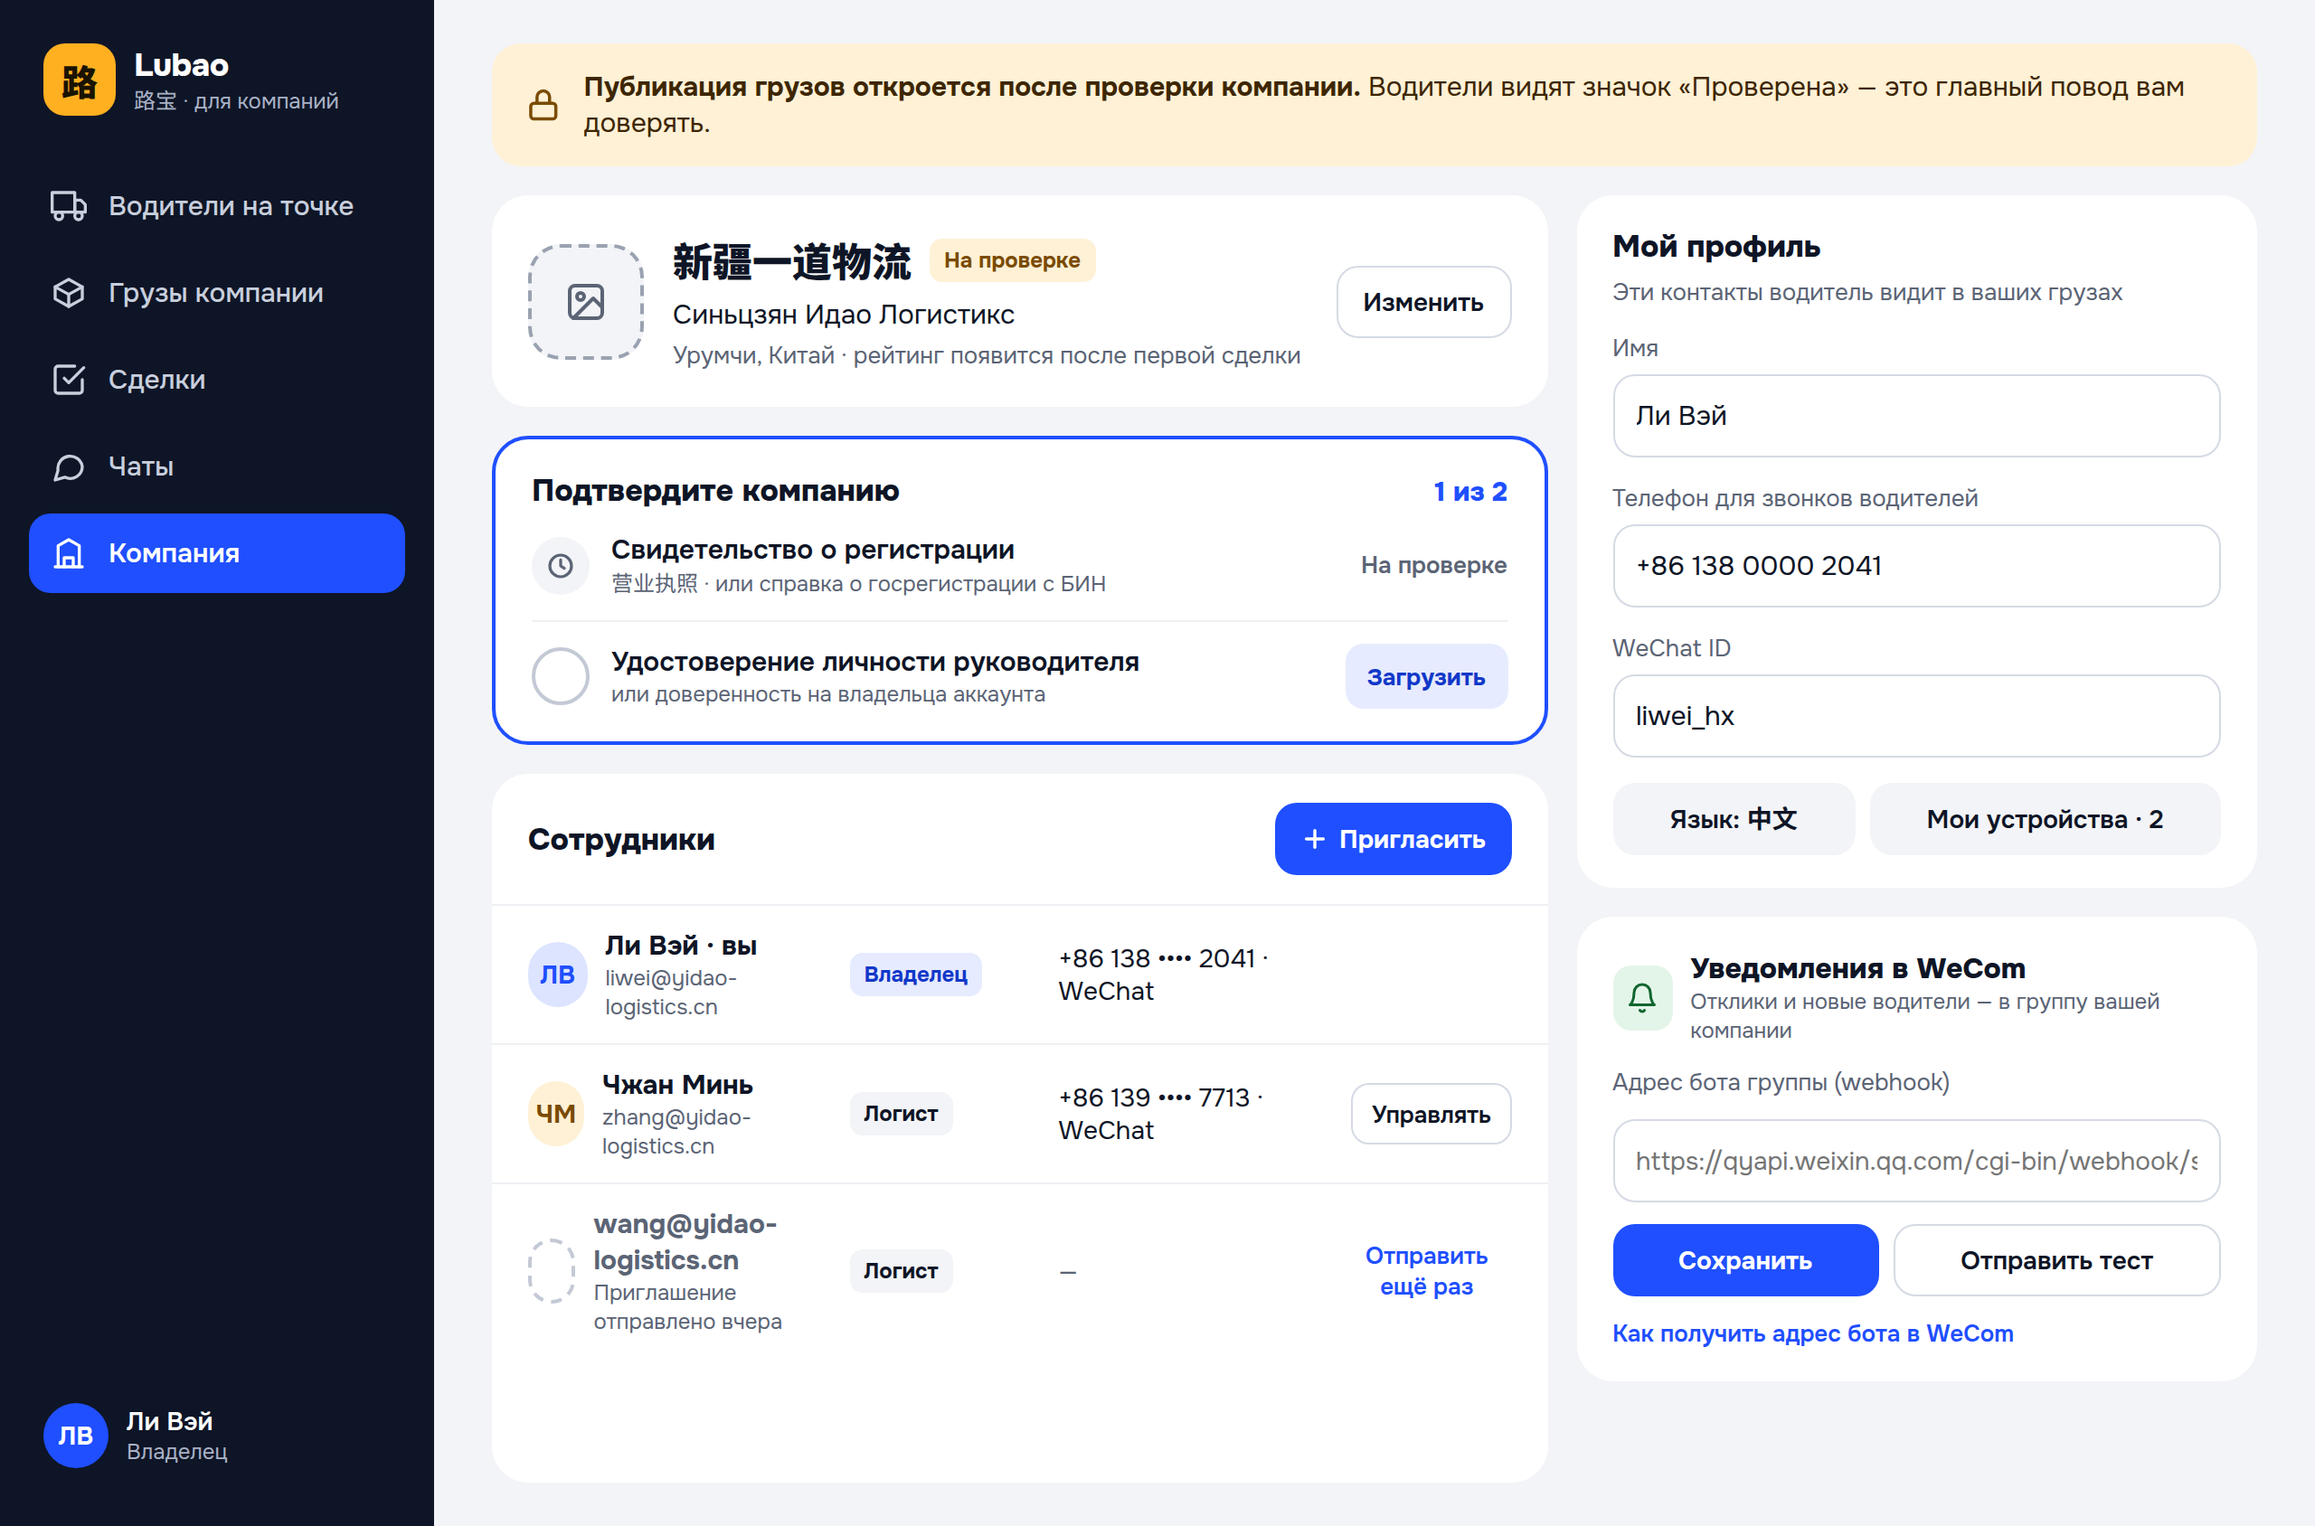
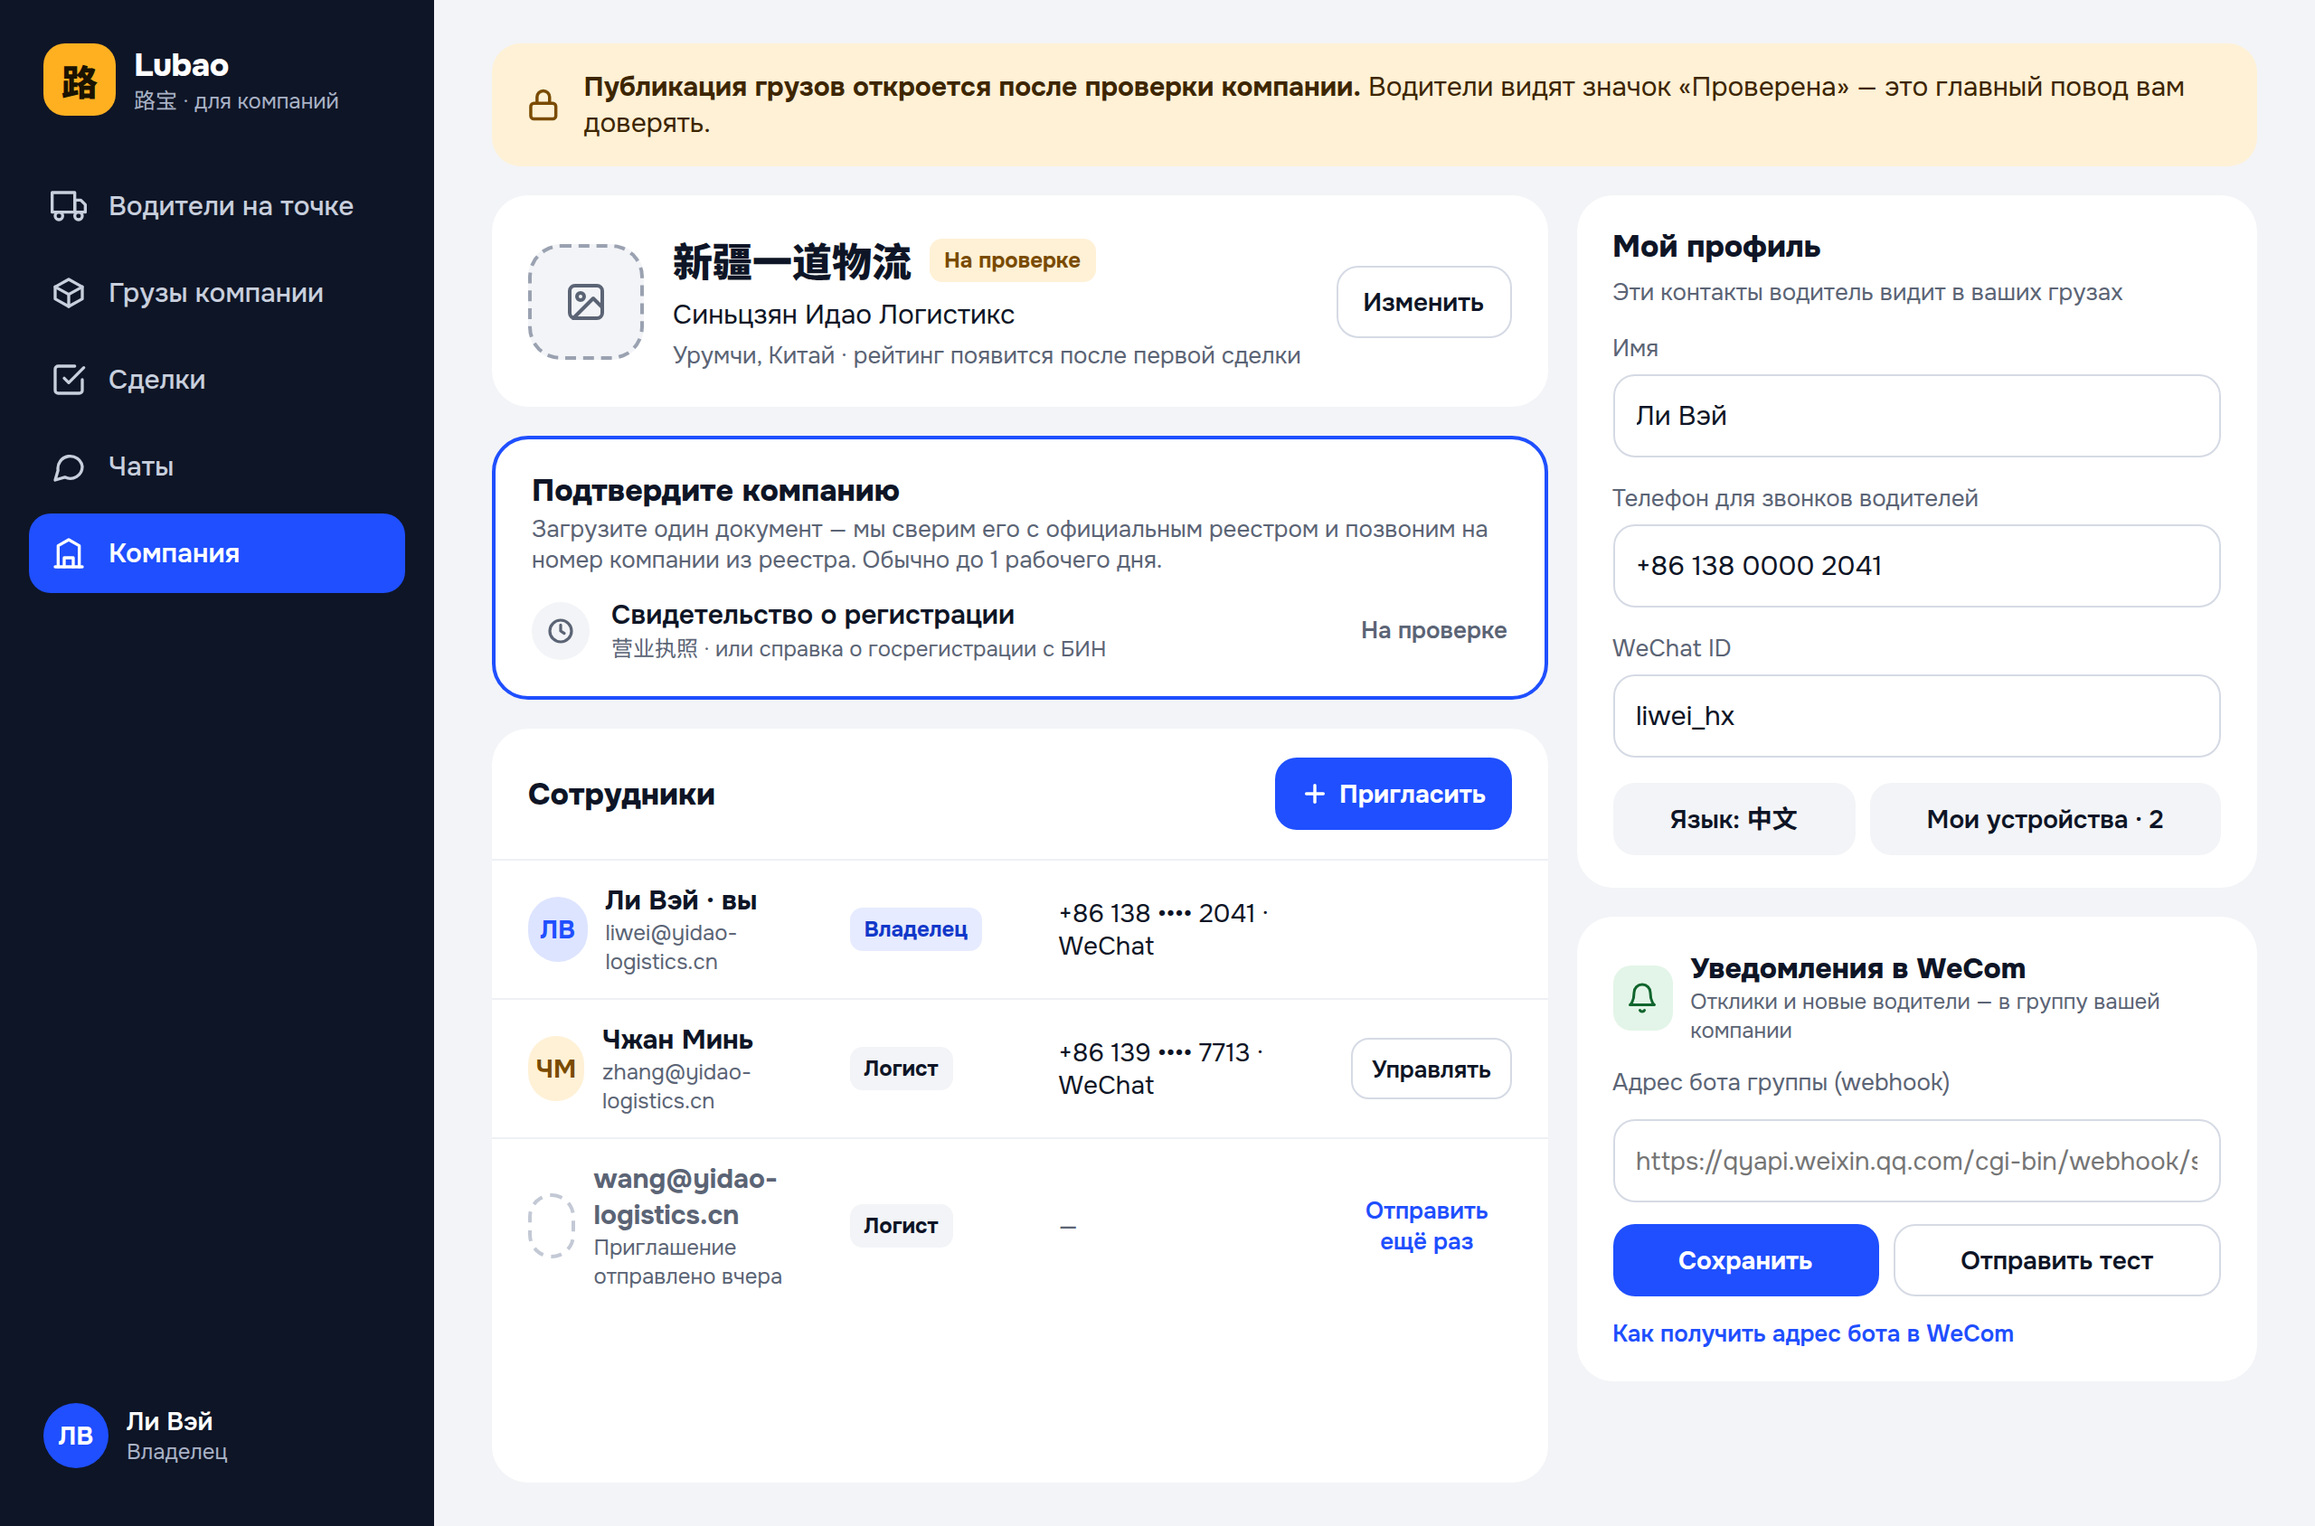
Company verification: single document + admin registry/call checklist
Claude-Session: https://claude.ai/code/session_01Ff8oopsZvobH79mMVJKnFv

diff --git a/docs/tasks/012-company-profile.md b/docs/tasks/012-company-profile.md
@@ -16,7 +16,14 @@
 
 ### Правила доступа
 4. **Непроверенная компания не может публиковать грузы** — бэкенд отвечает 403 `COMPANY_NOT_VERIFIED`; в UI кнопка «Опубликовать груз» заблокирована, баннер «Публикация откроется после проверки». Смотреть водителей на точке и писать им можно.
-5. Проверка компании: 2 документа — свидетельство о регистрации (营业执照 / справка с БИН) и удостоверение руководителя или доверенность. Статусы как у водителя (none / pending / approved / rejected + причина). `Company.isVerified` = оба approved. Очередь проверки в админке — та же, что для водителей, с фильтром «компании».
+5. **Проверка компании: один документ** — свидетельство о регистрации (营业执照 / справка о госрегистрации с БИН). Статусы как у водителя (none / pending / approved / rejected + причина). Удостоверение руководителя НЕ запрашиваем (решение 2026-10-04); админ может запросить дополнительный документ вручную в спорном случае (статус `ADDITIONAL_REQUIRED` + комментарий).
+   `Company.isVerified` ставит админ после проверки по чек-листу (п. 5а), а не автоматически при загрузке документа.
+5а. **Чек-лист проверки компании в админке** (галочки сохраняются в `audit_log`, одобрить можно только когда отмечены все обязательные):
+   - компания найдена в официальном реестре (КНР: 国家企业信用信息公示系统; РК: поиск по БИН) — ссылка/скрин в комментарий;
+   - название и рег. номер в документе совпадают с реестром;
+   - звонок на **официальный номер компании из реестра** (не из заявки): подтверждено, что заявитель — сотрудник; имя подтвердившего — в комментарий;
+   - домен email заявителя (подсказка: корпоративный домен компании — зелёный, бесплатная почта qq.com / 163.com / gmail.com — жёлтый, требует внимания на звонке).
+   Очередь проверки — та же, что для водителей, с фильтром «компании».
 6. **Роли:**
    - **Владелец** — всё: данные компании, документы, сотрудники, WeCom, все грузы и сделки (редактирование любых).
    - **Логист** — видит все грузы, сделки и чаты компании (чтобы подменить коллегу); редактирует/закрывает свои грузы и ведёт свои сделки. Данные компании и сотрудников — только просмотр.
@@ -24,7 +31,7 @@
 7. **Контакты в грузе — конкретного логиста**, который его опубликовал: имя, телефон, WeChat. Кнопки «Позвонить» / «Написать» у водителя ведут к нему. Если логист удалён из компании — его грузы переходят владельцу.
 
 ### Экран (веб и мобильная версия)
-8. По макету: баннер (если не проверена) → карточка компании (лого, два названия, город, рейтинг, «Изменить» — только владельцу) → «Подтвердите компанию» (скрывается после проверки) → «Сотрудники» (+ Пригласить, роли, «Отправить ещё раз», «Управлять»: сменить роль / удалить) → справа «Мой профиль» (имя, телефон для водителей, WeChat, язык, мои устройства) и «Уведомления в WeCom» (адрес бота, «Сохранить», «Отправить тест», ссылка на инструкцию).
+8. По макету: баннер (если не проверена) → карточка компании (лого, два названия, город, рейтинг, «Изменить» — только владельцу) → «Подтвердите компанию» — один документ и пояснение «сверим с реестром и позвоним на номер из реестра, обычно до 1 рабочего дня» (скрывается после проверки) → «Сотрудники» (+ Пригласить, роли, «Отправить ещё раз», «Управлять»: сменить роль / удалить) → справа «Мой профиль» (имя, телефон для водителей, WeChat, язык, мои устройства) и «Уведомления в WeCom» (адрес бота, «Сохранить», «Отправить тест», ссылка на инструкцию).
 9. Приглашение: владелец вводит email и роль → письмо со ссылкой → сотрудник задаёт пароль и заполняет «Мой профиль». (Отправку email можно временно заменить ссылкой-приглашением, которую владелец копирует сам — решить в плане.)
 10. Все строки — ARB (kk/ru/zh).
 

diff --git a/docs/decisions.md b/docs/decisions.md
@@ -11,7 +11,7 @@
 Гигиена репозитория: из Git убран кэш `backend/.pnpm-store` (17 тыс. файлов, 228 МБ), дубль `claude.md` (на Windows/macOS конфликтует с `CLAUDE.md`), lock-файл Claude Code; разрешены конфликты в `.gitignore` и `design/DESIGN.md`.
 
 **Компания: проверка, роли, контакты.** (задача 012)
-- Непроверенная компания не публикует грузы (смотреть водителей и писать им можно). Проверка — 2 документа: свидетельство о регистрации (营业执照 / справка с БИН) и удостоверение руководителя или доверенность.
+- Непроверенная компания не публикует грузы (смотреть водителей и писать им можно). Проверка — один документ (свидетельство о регистрации: 营业执照 / справка с БИН) + админ сверяет с официальным реестром и звонит на номер компании из реестра. Удостоверение руководителя не запрашиваем: китайские компании не захотят отправлять паспорт директора за границу (PIPL), а защиты оно почти не добавляет; доп. документ — только в спорных случаях.
 - Водитель звонит и пишет конкретному логисту, опубликовавшему груз (свои телефон и WeChat у каждого), а не «компании».
 - Логист видит все грузы, сделки и чаты компании; редактирует свои. Владелец — всё и управляет сотрудниками.
 Почему: главный страх водителя — мошенник под видом логиста; значок «Проверена» должен что-то значить. Общий телефон компании никто не берёт.
